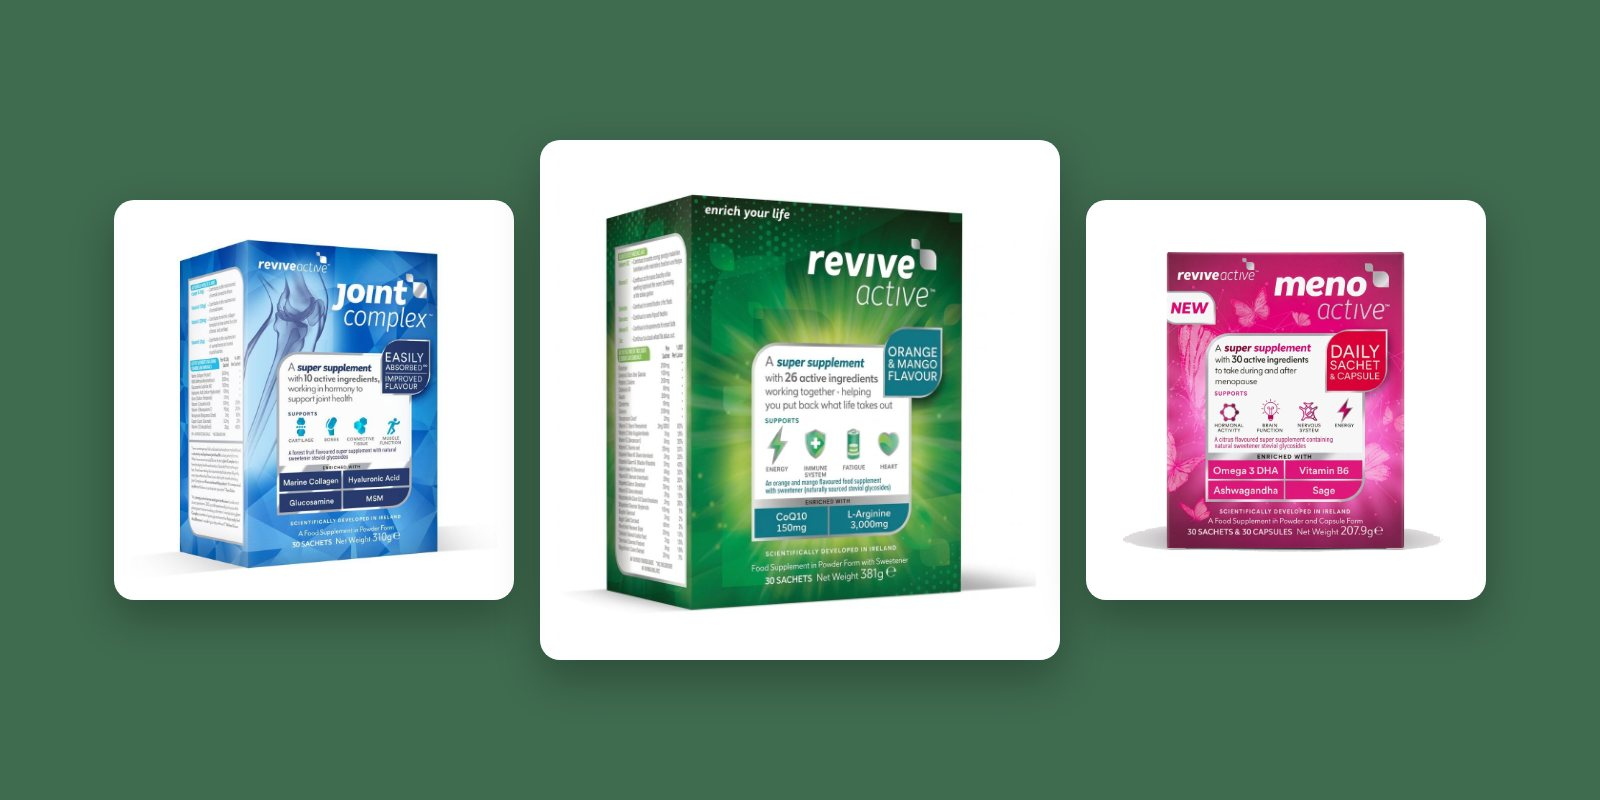
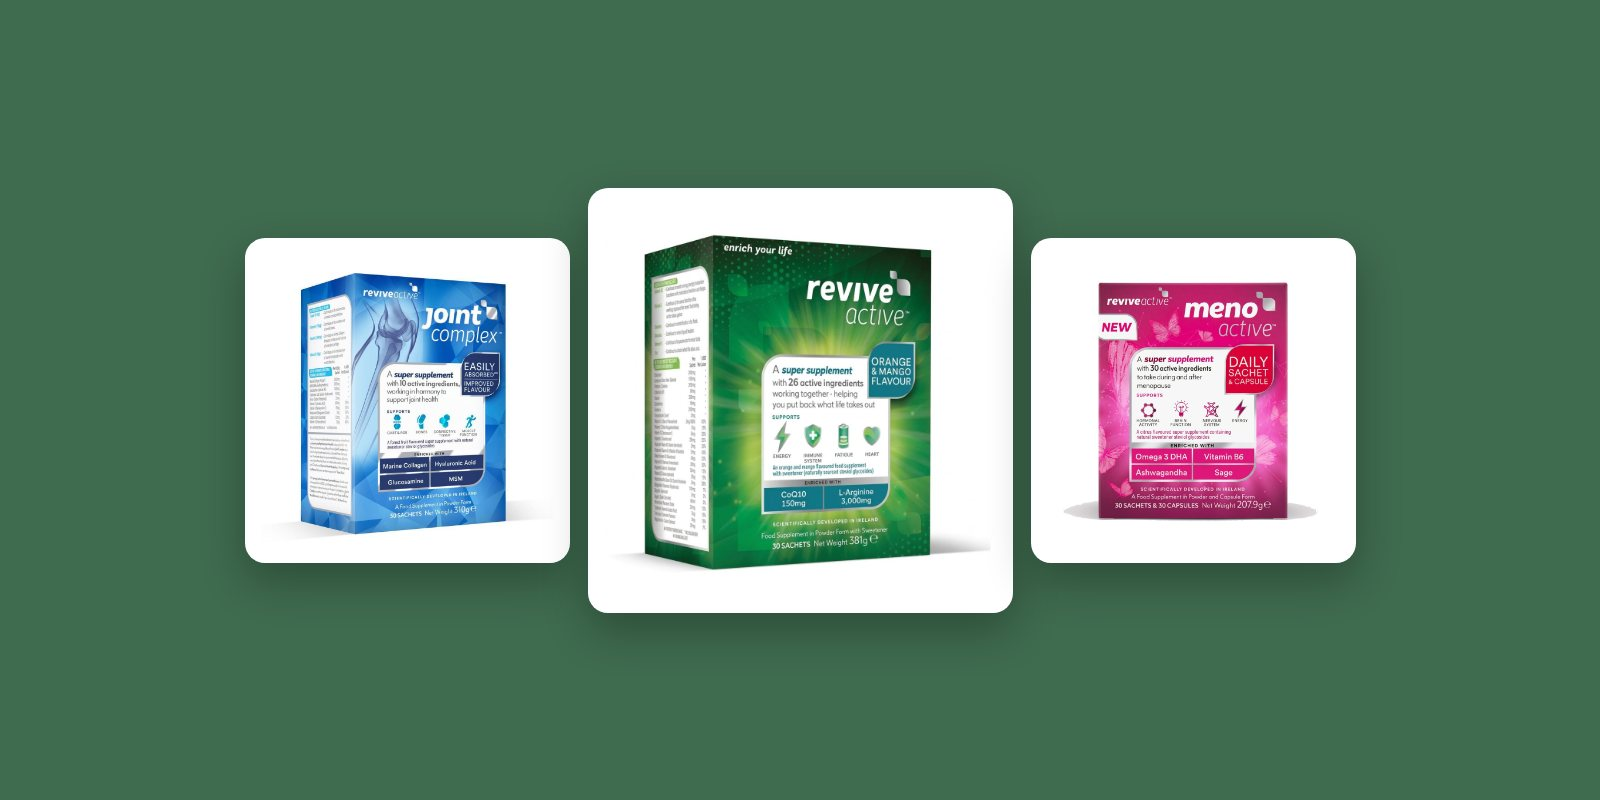
Offer spotlight: the safe area is 70%, measured across the range
The tile shipped clipping both outer Revive packs between about 1050 and
1300px wide. The artwork reserved a 6.4% crop each side, which is what 1440
measures -- but the spotlight panel is 2:1 only below 900px, where the stacked
layout sets aspect-ratio exactly. Above that its height comes from the
right-hand column, and it is narrowest in the MIDDLE of the desktop range:

    1440  527x302  1.746   6.3% cropped each side
    1280  473x299  1.585  10.4%
    1100  404x285  1.417  14.6%   <- worst
    1000  557x278  2.005   0.0%
     375  343x172  2.000   0.0%

So the safe band is the middle 70%, not 87%. Cards go 325/425/325 with an
18px gap, 1111px inside the 1120px band. The two row images are untouched and
rebuilt byte-identical: they render in an exactly 4:3 box at every width, so
they never crop.

The measurement loop is in the build.py comment. Both previous cuts of this
file were wrong because they were checked at 1440 and 375 only -- the two
widths in the range that happen to crop least.

diff --git a/artwork/hot-offers/build.py b/artwork/hot-offers/build.py
@@ -69,17 +69,31 @@ SHOTS = {
 # mismatch shows as a seam. The packs sit on white cards over that ground, and
 # the middle one is drawn larger so the trio reads as a hero.
 #
-#   The cards must stay inside the middle 87% of the width. The panel is 2:1
-#   only on a phone; at 1440 it measures 527x302 (1.745:1) and object-fit:cover
-#   takes 6.4% off each side. The first cut of this file ran the cards to 93.5%
-#   and the live tile clipped the Meno Active pack at the card edge.
+#   The cards must stay inside the middle 70% of the width, and the number is
+#   measured, not reasoned about. The panel is 2:1 only below 900px, where the
+#   stacked layout sets `aspect-ratio: 2/1` exactly. Above that it is whatever
+#   the right-hand column's height makes it, and it is narrowest -- so cropped
+#   hardest -- in the middle of the desktop range, NOT at 1440:
+#
+#       vw     panel      aspect   cover crops each side
+#       1440   527x302    1.746    6.3%
+#       1280   473x299    1.585   10.4%
+#       1100   404x285    1.417   14.6%   <- worst
+#       1000   557x278    2.005    0.0%
+#        375   343x172    2.000    0.0%
+#
+#   Two earlier cuts got this wrong by checking only the two widths that happen
+#   to crop least. The first ran the cards to 93.5% and clipped Meno Active at
+#   1440; the second used 87%, read clean at 1440 and 375, shipped, and clipped
+#   both outer packs at 1100. Re-measure with the loop in that table before
+#   changing this; do not infer it from one screenshot.
 #
 # ROWS (`bleed` style). No card and no ground: `.hot-row-img` in
 # sections/hot-offers.liquid is already a rounded, clipped 4:3 box, so a card
 # inside it is a second frame that shrinks the product. These render 128x96 on a
 # 1440 screen and 96px wide on a phone — at that size the product has to fill
 # the frame or it reads as a smudge.
-SAFE = 0.87
+SAFE = 0.70
 
 TILES = [
     {
@@ -87,11 +101,11 @@ TILES = [
         "style": "card",
         "w": 1600, "h": 800, "ground": "#3F6B4F",
         "cards": [
-            ("revive-active-joint-complex-30pk", 400),
-            ("revive-active-original-30pk", 520),
-            ("revive-active-meno-active", 400),
+            ("revive-active-joint-complex-30pk", 325),
+            ("revive-active-original-30pk", 425),
+            ("revive-active-meno-active", 325),
         ],
-        "gap": 26,
+        "gap": 18,
     },
     {
         "out": "offer-azio-beauty.jpg",
